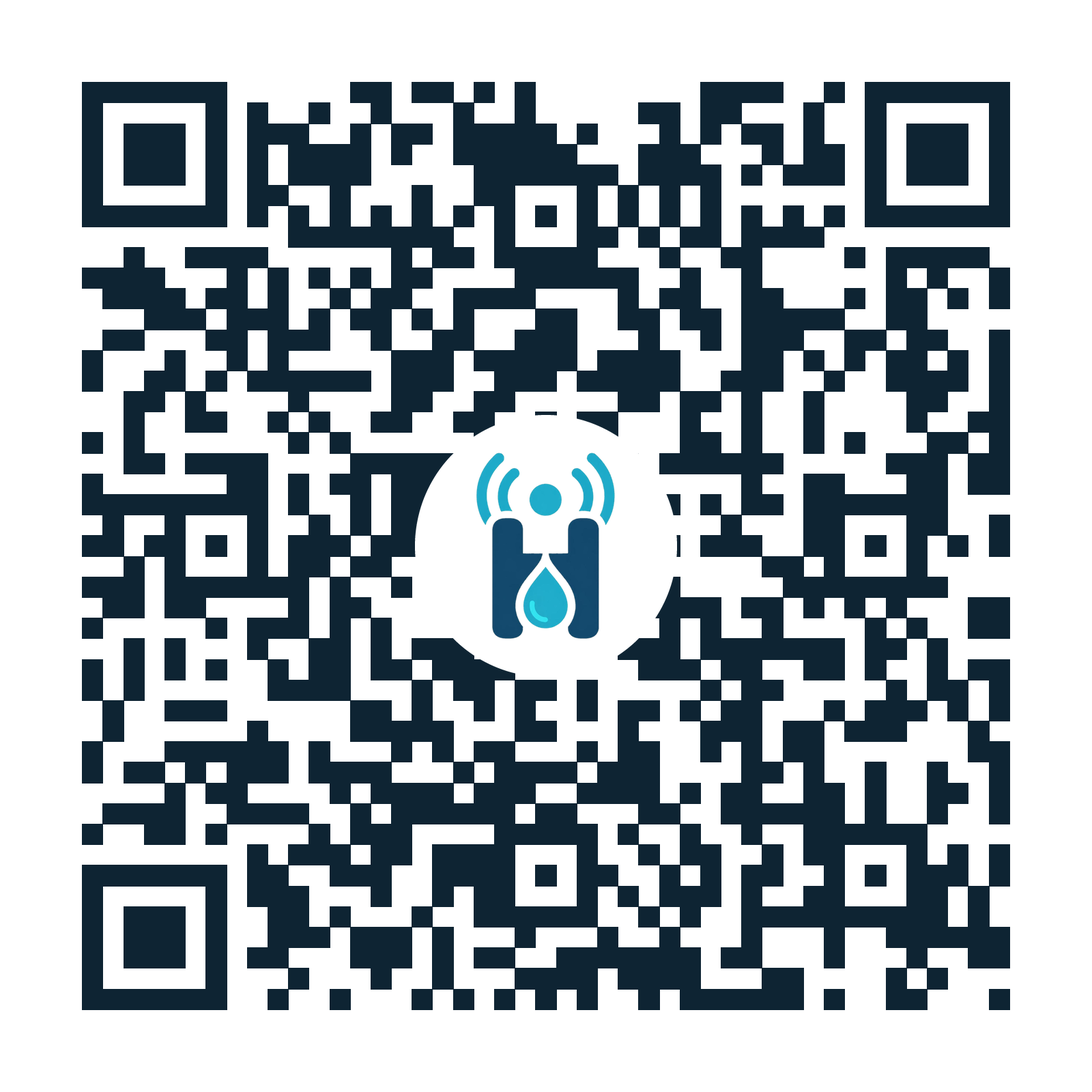
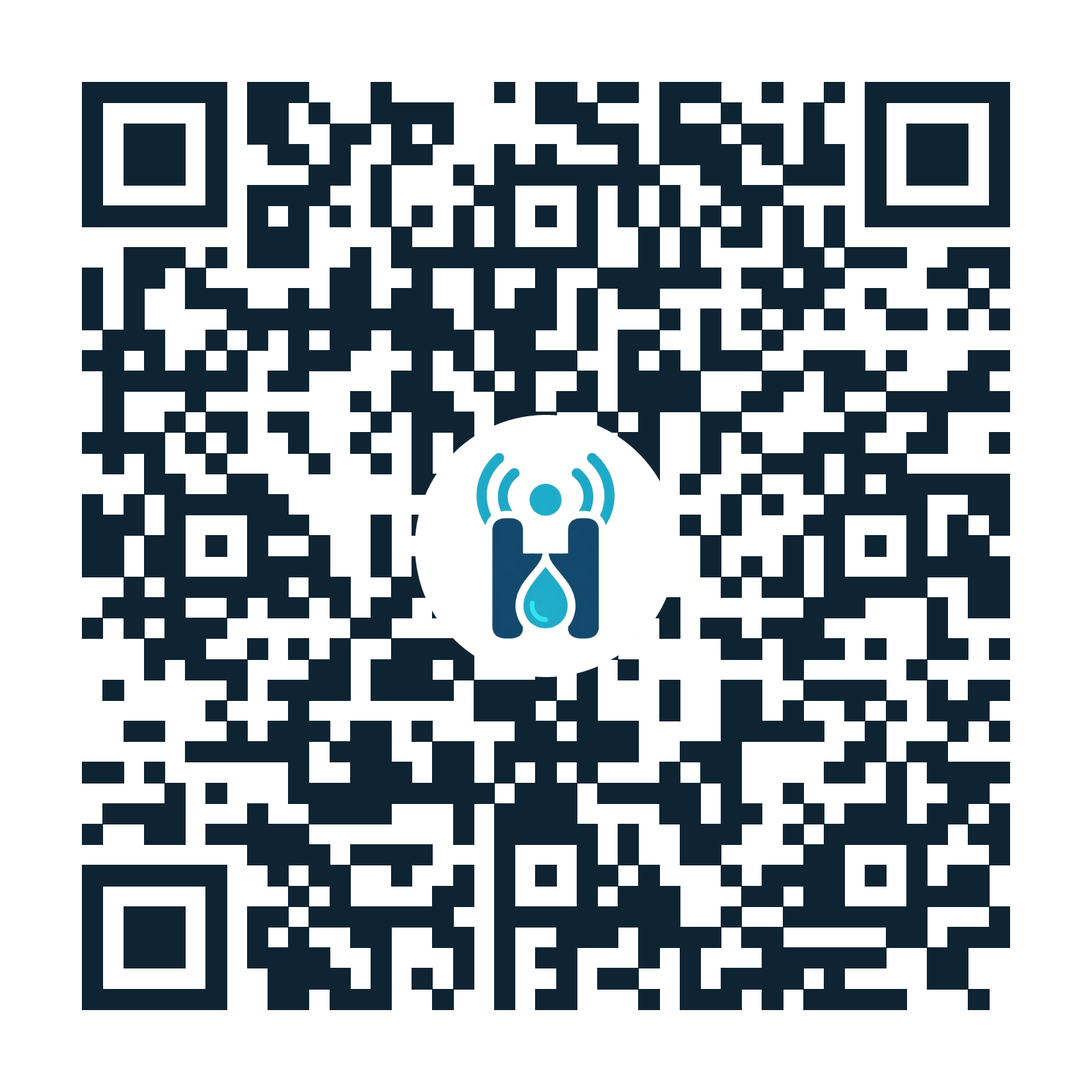
Move site address to radio.hectolitre.space
CNAME already names the new domain, but absolute URLs still pointed at
radio.hectolitre.be, including the station queue's self-hosted recording
and the podcast enclosure.

- Update site.json, queue.json, generate_feed.py, about page, sitemap,
  robots.txt and llms.txt
- Regenerate social meta tags, feed.xml, station.m3u and QR codes
- Rewrite docs/custom-domain.md, noting what happens to old addresses

Links to the main Hectolitre site (www.hectolitre.be) are unchanged.

Claude-Session: https://claude.ai/code/session_018stEAkN9pU52Zg2sJM6Zv3

Changed region(s): [[0.0625, 0.0625, 0.9375, 0.9375]]

diff --git a/pages/about.html b/pages/about.html
@@ -20,15 +20,15 @@
   <title>About — Radio Hectolitre</title>
 <!-- BEGIN social-meta: generated by scripts/sync_social_meta.py, do not hand-edit -->
   <meta name="description" content="An internet art radio by a resident at Hectolitre, an artists-run space in Brussels: live performances, interviews and concerts, then the recordings and documentation." />
-  <link rel="canonical" href="https://radio.hectolitre.be/pages/about.html" />
+  <link rel="canonical" href="https://radio.hectolitre.space/pages/about.html" />
   <meta name="theme-color" content="#18a8c8" />
   <link rel="manifest" href="../manifest.webmanifest" />
   <meta property="og:type" content="website" />
   <meta property="og:site_name" content="Radio Hectolitre" />
-  <meta property="og:url" content="https://radio.hectolitre.be/pages/about.html" />
+  <meta property="og:url" content="https://radio.hectolitre.space/pages/about.html" />
   <meta property="og:title" content="About — Radio Hectolitre" />
   <meta property="og:description" content="An internet art radio by a resident at Hectolitre, an artists-run space in Brussels: live performances, interviews and concerts, then the recordings and documentation." />
-  <meta property="og:image" content="https://radio.hectolitre.be/assets/img/og/radio-hectolitre.jpg" />
+  <meta property="og:image" content="https://radio.hectolitre.space/assets/img/og/radio-hectolitre.jpg" />
   <meta property="og:image:type" content="image/jpeg" />
   <meta property="og:image:width" content="1200" />
   <meta property="og:image:height" content="630" />
@@ -36,7 +36,7 @@
   <meta name="twitter:card" content="summary_large_image" />
   <meta name="twitter:title" content="About — Radio Hectolitre" />
   <meta name="twitter:description" content="An internet art radio by a resident at Hectolitre, an artists-run space in Brussels: live performances, interviews and concerts, then the recordings and documentation." />
-  <meta name="twitter:image" content="https://radio.hectolitre.be/assets/img/og/radio-hectolitre.jpg" />
+  <meta name="twitter:image" content="https://radio.hectolitre.space/assets/img/og/radio-hectolitre.jpg" />
   <meta name="twitter:image:alt" content="Documentation photo from the first Radio Hectolitre transmission: people gathered around a laptop and a spherical metal sculpture on a stand, at Hectolitre in Brussels" />
 <!-- END social-meta -->
   <link rel="preconnect" href="https://fonts.googleapis.com">
@@ -74,7 +74,7 @@
 
     <h2>Station</h2>
     <p>The core idea is a synced station without a backend server. There's not one continuous shared audio stream produced the way a typical internet-radio setup does. Tapping play seeks to the current computed position and starts playback. Every listener's browser independently computes <em>"what should be playing right now"</em> from a fixed program and the wall clock — landing on the same track and offset without any server or listener-to-listener coordination. 
-    <p>For podcast apps & RSS readers: <a href="https://radio.hectolitre.be/feed.xml" target="_blank">feed.xml</a> · Plain playlist file: <a href="https://radio.hectolitre.be/station.m3u" target="_blank">station.m3u</a></p>
+    <p>For podcast apps & RSS readers: <a href="https://radio.hectolitre.space/feed.xml" target="_blank">feed.xml</a> · Plain playlist file: <a href="https://radio.hectolitre.space/station.m3u" target="_blank">station.m3u</a></p>
 
 
   </main>

diff --git a/index.html b/index.html
@@ -19,15 +19,15 @@
   </script>
   <title>Radio Hectolitre</title>
 <!-- BEGIN social-meta: generated by scripts/sync_social_meta.py, do not hand-edit -->
-  <link rel="canonical" href="https://radio.hectolitre.be/" />
+  <link rel="canonical" href="https://radio.hectolitre.space/" />
   <meta name="theme-color" content="#18a8c8" />
   <link rel="manifest" href="manifest.webmanifest" />
   <meta property="og:type" content="website" />
   <meta property="og:site_name" content="Radio Hectolitre" />
-  <meta property="og:url" content="https://radio.hectolitre.be/" />
+  <meta property="og:url" content="https://radio.hectolitre.space/" />
   <meta property="og:title" content="Radio Hectolitre" />
   <meta property="og:description" content="Artists-run broadcasting at Hectolitre, Brussels — live transmissions, documentation and recordings." />
-  <meta property="og:image" content="https://radio.hectolitre.be/assets/img/og/radio-hectolitre.jpg" />
+  <meta property="og:image" content="https://radio.hectolitre.space/assets/img/og/radio-hectolitre.jpg" />
   <meta property="og:image:type" content="image/jpeg" />
   <meta property="og:image:width" content="1200" />
   <meta property="og:image:height" content="630" />
@@ -35,7 +35,7 @@
   <meta name="twitter:card" content="summary_large_image" />
   <meta name="twitter:title" content="Radio Hectolitre" />
   <meta name="twitter:description" content="Artists-run broadcasting at Hectolitre, Brussels — live transmissions, documentation and recordings." />
-  <meta name="twitter:image" content="https://radio.hectolitre.be/assets/img/og/radio-hectolitre.jpg" />
+  <meta name="twitter:image" content="https://radio.hectolitre.space/assets/img/og/radio-hectolitre.jpg" />
   <meta name="twitter:image:alt" content="Documentation photo from the first Radio Hectolitre transmission: people gathered around a laptop and a spherical metal sculpture on a stand, at Hectolitre in Brussels" />
   <script type="application/ld+json">
 {
@@ -43,10 +43,10 @@
   "@graph": [
     {
       "@type": "Organization",
-      "@id": "https://radio.hectolitre.be/#organization",
+      "@id": "https://radio.hectolitre.space/#organization",
       "name": "Radio Hectolitre",
-      "url": "https://radio.hectolitre.be/",
-      "logo": "https://radio.hectolitre.be/assets/img/favicon/radio-hectolitre.png",
+      "url": "https://radio.hectolitre.space/",
+      "logo": "https://radio.hectolitre.space/assets/img/favicon/radio-hectolitre.png",
       "sameAs": [
         "https://github.com/daqhris/radio-hectolitre",
         "https://www.hectolitre.be"
@@ -54,12 +54,12 @@
     },
     {
       "@type": "WebSite",
-      "@id": "https://radio.hectolitre.be/#website",
+      "@id": "https://radio.hectolitre.space/#website",
       "name": "Radio Hectolitre",
-      "url": "https://radio.hectolitre.be/",
+      "url": "https://radio.hectolitre.space/",
       "description": "Artists-run broadcasting at Hectolitre, Brussels — live transmissions, documentation and recordings.",
       "publisher": {
-        "@id": "https://radio.hectolitre.be/#organization"
+        "@id": "https://radio.hectolitre.space/#organization"
       }
     }
   ]

diff --git a/pages/broadcasts/2026-05-31.html b/pages/broadcasts/2026-05-31.html
@@ -20,15 +20,15 @@
   <title>Radio Hectolitre — 31 May 2026</title>
 <!-- BEGIN social-meta: generated by scripts/sync_social_meta.py, do not hand-edit -->
   <meta name="description" content="A site-specific sound performance in the Reactor space — the inaugural transmission of Radio Hectolitre, broadcast live via FRP Radio." />
-  <link rel="canonical" href="https://radio.hectolitre.be/pages/broadcasts/2026-05-31.html" />
+  <link rel="canonical" href="https://radio.hectolitre.space/pages/broadcasts/2026-05-31.html" />
   <meta name="theme-color" content="#18a8c8" />
   <link rel="manifest" href="../../manifest.webmanifest" />
   <meta property="og:type" content="website" />
   <meta property="og:site_name" content="Radio Hectolitre" />
-  <meta property="og:url" content="https://radio.hectolitre.be/pages/broadcasts/2026-05-31.html" />
+  <meta property="og:url" content="https://radio.hectolitre.space/pages/broadcasts/2026-05-31.html" />
   <meta property="og:title" content="Time Board Mother Control · 31 May 2026 — Radio Hectolitre" />
   <meta property="og:description" content="A site-specific sound performance in the Reactor space — the inaugural transmission of Radio Hectolitre, broadcast live via FRP Radio." />
-  <meta property="og:image" content="https://radio.hectolitre.be/assets/img/og/2026-05-31.jpg" />
+  <meta property="og:image" content="https://radio.hectolitre.space/assets/img/og/2026-05-31.jpg" />
   <meta property="og:image:type" content="image/jpeg" />
   <meta property="og:image:width" content="1200" />
   <meta property="og:image:height" content="630" />
@@ -36,7 +36,7 @@
   <meta name="twitter:card" content="summary_large_image" />
   <meta name="twitter:title" content="Time Board Mother Control · 31 May 2026 — Radio Hectolitre" />
   <meta name="twitter:description" content="A site-specific sound performance in the Reactor space — the inaugural transmission of Radio Hectolitre, broadcast live via FRP Radio." />
-  <meta name="twitter:image" content="https://radio.hectolitre.be/assets/img/og/2026-05-31.jpg" />
+  <meta name="twitter:image" content="https://radio.hectolitre.space/assets/img/og/2026-05-31.jpg" />
   <meta name="twitter:image:alt" content="Hand-lettered poster for the Time Board Mother Control performance: Sunday 31 May at Hectolitre, Rue de l'Hectolitre 3, Brussels" />
 <!-- END social-meta -->
   <link rel="preconnect" href="https://fonts.googleapis.com">

diff --git a/pages/episodes/episode-06-ksenia-anokhina.html b/pages/episodes/episode-06-ksenia-anokhina.html
@@ -20,15 +20,15 @@
   <title>Episode 06 — Ksenia Anokhina — Radio Hectolitre</title>
 <!-- BEGIN social-meta: generated by scripts/sync_social_meta.py, do not hand-edit -->
   <meta name="description" content="Ksenia Anokhina on technology, power and bureaucracy, during a three-month Hectolitre residency." />
-  <link rel="canonical" href="https://radio.hectolitre.be/pages/episodes/episode-06-ksenia-anokhina.html" />
+  <link rel="canonical" href="https://radio.hectolitre.space/pages/episodes/episode-06-ksenia-anokhina.html" />
   <meta name="theme-color" content="#18a8c8" />
   <link rel="manifest" href="../../manifest.webmanifest" />
   <meta property="og:type" content="website" />
   <meta property="og:site_name" content="Radio Hectolitre" />
-  <meta property="og:url" content="https://radio.hectolitre.be/pages/episodes/episode-06-ksenia-anokhina.html" />
+  <meta property="og:url" content="https://radio.hectolitre.space/pages/episodes/episode-06-ksenia-anokhina.html" />
   <meta property="og:title" content="Episode 06 — Ksenia Anokhina — Radio Hectolitre" />
   <meta property="og:description" content="Ksenia Anokhina on technology, power and bureaucracy, during a three-month Hectolitre residency." />
-  <meta property="og:image" content="https://radio.hectolitre.be/assets/img/og/episode-06-ksenia-anokhina.jpg" />
+  <meta property="og:image" content="https://radio.hectolitre.space/assets/img/og/episode-06-ksenia-anokhina.jpg" />
   <meta property="og:image:type" content="image/jpeg" />
   <meta property="og:image:width" content="1200" />
   <meta property="og:image:height" content="630" />
@@ -36,7 +36,7 @@
   <meta name="twitter:card" content="summary_large_image" />
   <meta name="twitter:title" content="Episode 06 — Ksenia Anokhina — Radio Hectolitre" />
   <meta name="twitter:description" content="Ksenia Anokhina on technology, power and bureaucracy, during a three-month Hectolitre residency." />
-  <meta name="twitter:image" content="https://radio.hectolitre.be/assets/img/og/episode-06-ksenia-anokhina.jpg" />
+  <meta name="twitter:image" content="https://radio.hectolitre.space/assets/img/og/episode-06-ksenia-anokhina.jpg" />
   <meta name="twitter:image:alt" content="Episode 06 — Ksenia Anokhina — Hectolitre.FM · Episode 06, on a background of radio-wave rings" />
 <!-- END social-meta -->
   <link rel="preconnect" href="https://fonts.googleapis.com">

diff --git a/pages/episodes/episode-03-pierre-louis-cassou.html b/pages/episodes/episode-03-pierre-louis-cassou.html
@@ -20,15 +20,15 @@
   <title>Episode 03 — Pierre-Louis Cassou — Radio Hectolitre</title>
 <!-- BEGIN social-meta: generated by scripts/sync_social_meta.py, do not hand-edit -->
   <meta name="description" content="Meeting Pierre-Louis Cassou, one of Hectolitre's longest-standing members." />
-  <link rel="canonical" href="https://radio.hectolitre.be/pages/episodes/episode-03-pierre-louis-cassou.html" />
+  <link rel="canonical" href="https://radio.hectolitre.space/pages/episodes/episode-03-pierre-louis-cassou.html" />
   <meta name="theme-color" content="#18a8c8" />
   <link rel="manifest" href="../../manifest.webmanifest" />
   <meta property="og:type" content="website" />
   <meta property="og:site_name" content="Radio Hectolitre" />
-  <meta property="og:url" content="https://radio.hectolitre.be/pages/episodes/episode-03-pierre-louis-cassou.html" />
+  <meta property="og:url" content="https://radio.hectolitre.space/pages/episodes/episode-03-pierre-louis-cassou.html" />
   <meta property="og:title" content="Episode 03 — Pierre-Louis Cassou — Radio Hectolitre" />
   <meta property="og:description" content="Meeting Pierre-Louis Cassou, one of Hectolitre's longest-standing members." />
-  <meta property="og:image" content="https://radio.hectolitre.be/assets/img/og/episode-03-pierre-louis-cassou.jpg" />
+  <meta property="og:image" content="https://radio.hectolitre.space/assets/img/og/episode-03-pierre-louis-cassou.jpg" />
   <meta property="og:image:type" content="image/jpeg" />
   <meta property="og:image:width" content="1200" />
   <meta property="og:image:height" content="630" />
@@ -36,7 +36,7 @@
   <meta name="twitter:card" content="summary_large_image" />
   <meta name="twitter:title" content="Episode 03 — Pierre-Louis Cassou — Radio Hectolitre" />
   <meta name="twitter:description" content="Meeting Pierre-Louis Cassou, one of Hectolitre's longest-standing members." />
-  <meta name="twitter:image" content="https://radio.hectolitre.be/assets/img/og/episode-03-pierre-louis-cassou.jpg" />
+  <meta name="twitter:image" content="https://radio.hectolitre.space/assets/img/og/episode-03-pierre-louis-cassou.jpg" />
   <meta name="twitter:image:alt" content="Episode 03 — Pierre-Louis Cassou — Hectolitre.FM · Episode 03, on a background of radio-wave rings" />
 <!-- END social-meta -->
   <link rel="preconnect" href="https://fonts.googleapis.com">

diff --git a/pages/episodes/episode-04-oscar-cassamajor.html b/pages/episodes/episode-04-oscar-cassamajor.html
@@ -20,15 +20,15 @@
   <title>Episode 04 — Oscar Cassamajor — Radio Hectolitre</title>
 <!-- BEGIN social-meta: generated by scripts/sync_social_meta.py, do not hand-edit -->
   <meta name="description" content="Oscar Cassamajor on parkour, cultural mediation, and growing fruit trees in the city." />
-  <link rel="canonical" href="https://radio.hectolitre.be/pages/episodes/episode-04-oscar-cassamajor.html" />
+  <link rel="canonical" href="https://radio.hectolitre.space/pages/episodes/episode-04-oscar-cassamajor.html" />
   <meta name="theme-color" content="#18a8c8" />
   <link rel="manifest" href="../../manifest.webmanifest" />
   <meta property="og:type" content="website" />
   <meta property="og:site_name" content="Radio Hectolitre" />
-  <meta property="og:url" content="https://radio.hectolitre.be/pages/episodes/episode-04-oscar-cassamajor.html" />
+  <meta property="og:url" content="https://radio.hectolitre.space/pages/episodes/episode-04-oscar-cassamajor.html" />
   <meta property="og:title" content="Episode 04 — Oscar Cassamajor — Radio Hectolitre" />
   <meta property="og:description" content="Oscar Cassamajor on parkour, cultural mediation, and growing fruit trees in the city." />
-  <meta property="og:image" content="https://radio.hectolitre.be/assets/img/og/episode-04-oscar-cassamajor.jpg" />
+  <meta property="og:image" content="https://radio.hectolitre.space/assets/img/og/episode-04-oscar-cassamajor.jpg" />
   <meta property="og:image:type" content="image/jpeg" />
   <meta property="og:image:width" content="1200" />
   <meta property="og:image:height" content="630" />
@@ -36,7 +36,7 @@
   <meta name="twitter:card" content="summary_large_image" />
   <meta name="twitter:title" content="Episode 04 — Oscar Cassamajor — Radio Hectolitre" />
   <meta name="twitter:description" content="Oscar Cassamajor on parkour, cultural mediation, and growing fruit trees in the city." />
-  <meta name="twitter:image" content="https://radio.hectolitre.be/assets/img/og/episode-04-oscar-cassamajor.jpg" />
+  <meta name="twitter:image" content="https://radio.hectolitre.space/assets/img/og/episode-04-oscar-cassamajor.jpg" />
   <meta name="twitter:image:alt" content="Episode 04 — Oscar Cassamajor — Hectolitre.FM · Episode 04, on a background of radio-wave rings" />
 <!-- END social-meta -->
   <link rel="preconnect" href="https://fonts.googleapis.com">

diff --git a/pages/episodes/episode-08-martina-petrovic.html b/pages/episodes/episode-08-martina-petrovic.html
@@ -20,15 +20,15 @@
   <title>Episode 08 — Martina Petrović — Radio Hectolitre</title>
 <!-- BEGIN social-meta: generated by scripts/sync_social_meta.py, do not hand-edit -->
   <meta name="description" content="Martina Petrović on diaspora, ritual and grief, and life inside an art space." />
-  <link rel="canonical" href="https://radio.hectolitre.be/pages/episodes/episode-08-martina-petrovic.html" />
+  <link rel="canonical" href="https://radio.hectolitre.space/pages/episodes/episode-08-martina-petrovic.html" />
   <meta name="theme-color" content="#18a8c8" />
   <link rel="manifest" href="../../manifest.webmanifest" />
   <meta property="og:type" content="website" />
   <meta property="og:site_name" content="Radio Hectolitre" />
-  <meta property="og:url" content="https://radio.hectolitre.be/pages/episodes/episode-08-martina-petrovic.html" />
+  <meta property="og:url" content="https://radio.hectolitre.space/pages/episodes/episode-08-martina-petrovic.html" />
   <meta property="og:title" content="Episode 08 — Martina Petrović — Radio Hectolitre" />
   <meta property="og:description" content="Martina Petrović on diaspora, ritual and grief, and life inside an art space." />
-  <meta property="og:image" content="https://radio.hectolitre.be/assets/img/og/episode-08-martina-petrovic.jpg" />
+  <meta property="og:image" content="https://radio.hectolitre.space/assets/img/og/episode-08-martina-petrovic.jpg" />
   <meta property="og:image:type" content="image/jpeg" />
   <meta property="og:image:width" content="1200" />
   <meta property="og:image:height" content="630" />
@@ -36,7 +36,7 @@
   <meta name="twitter:card" content="summary_large_image" />
   <meta name="twitter:title" content="Episode 08 — Martina Petrović — Radio Hectolitre" />
   <meta name="twitter:description" content="Martina Petrović on diaspora, ritual and grief, and life inside an art space." />
-  <meta name="twitter:image" content="https://radio.hectolitre.be/assets/img/og/episode-08-martina-petrovic.jpg" />
+  <meta name="twitter:image" content="https://radio.hectolitre.space/assets/img/og/episode-08-martina-petrovic.jpg" />
   <meta name="twitter:image:alt" content="Episode 08 — Martina Petrović — Hectolitre.FM · Episode 08, on a background of radio-wave rings" />
 <!-- END social-meta -->
   <link rel="preconnect" href="https://fonts.googleapis.com">

diff --git a/pages/archive.html b/pages/archive.html
@@ -20,15 +20,15 @@
   <title>Broadcast — Radio Hectolitre</title>
 <!-- BEGIN social-meta: generated by scripts/sync_social_meta.py, do not hand-edit -->
   <meta name="description" content="Every web broadcast from Hectolitre, Brussels — live transmissions with their recordings, spoken words and photo documentation." />
-  <link rel="canonical" href="https://radio.hectolitre.be/pages/archive.html" />
+  <link rel="canonical" href="https://radio.hectolitre.space/pages/archive.html" />
   <meta name="theme-color" content="#18a8c8" />
   <link rel="manifest" href="../manifest.webmanifest" />
   <meta property="og:type" content="website" />
   <meta property="og:site_name" content="Radio Hectolitre" />
-  <meta property="og:url" content="https://radio.hectolitre.be/pages/archive.html" />
+  <meta property="og:url" content="https://radio.hectolitre.space/pages/archive.html" />
   <meta property="og:title" content="Broadcast — Radio Hectolitre" />
   <meta property="og:description" content="Every web broadcast from Hectolitre, Brussels — live transmissions with their recordings, spoken words and photo documentation." />
-  <meta property="og:image" content="https://radio.hectolitre.be/assets/img/og/radio-hectolitre.jpg" />
+  <meta property="og:image" content="https://radio.hectolitre.space/assets/img/og/radio-hectolitre.jpg" />
   <meta property="og:image:type" content="image/jpeg" />
   <meta property="og:image:width" content="1200" />
   <meta property="og:image:height" content="630" />
@@ -36,7 +36,7 @@
   <meta name="twitter:card" content="summary_large_image" />
   <meta name="twitter:title" content="Broadcast — Radio Hectolitre" />
   <meta name="twitter:description" content="Every web broadcast from Hectolitre, Brussels — live transmissions with their recordings, spoken words and photo documentation." />
-  <meta name="twitter:image" content="https://radio.hectolitre.be/assets/img/og/radio-hectolitre.jpg" />
+  <meta name="twitter:image" content="https://radio.hectolitre.space/assets/img/og/radio-hectolitre.jpg" />
   <meta name="twitter:image:alt" content="Documentation photo from the first Radio Hectolitre transmission: people gathered around a laptop and a spherical metal sculpture on a stand, at Hectolitre in Brussels" />
 <!-- END social-meta -->
   <link rel="preconnect" href="https://fonts.googleapis.com">

diff --git a/pages/episodes/episode-05-naama-freedman.html b/pages/episodes/episode-05-naama-freedman.html
@@ -20,15 +20,15 @@
   <title>Episode 05 — Naama Freedman — Radio Hectolitre</title>
 <!-- BEGIN social-meta: generated by scripts/sync_social_meta.py, do not hand-edit -->
   <meta name="description" content="Israeli artist Naama Freedman on her Hectolitre residency and radio-art piece." />
-  <link rel="canonical" href="https://radio.hectolitre.be/pages/episodes/episode-05-naama-freedman.html" />
+  <link rel="canonical" href="https://radio.hectolitre.space/pages/episodes/episode-05-naama-freedman.html" />
   <meta name="theme-color" content="#18a8c8" />
   <link rel="manifest" href="../../manifest.webmanifest" />
   <meta property="og:type" content="website" />
   <meta property="og:site_name" content="Radio Hectolitre" />
-  <meta property="og:url" content="https://radio.hectolitre.be/pages/episodes/episode-05-naama-freedman.html" />
+  <meta property="og:url" content="https://radio.hectolitre.space/pages/episodes/episode-05-naama-freedman.html" />
   <meta property="og:title" content="Episode 05 — Naama Freedman — Radio Hectolitre" />
   <meta property="og:description" content="Israeli artist Naama Freedman on her Hectolitre residency and radio-art piece." />
-  <meta property="og:image" content="https://radio.hectolitre.be/assets/img/og/episode-05-naama-freedman.jpg" />
+  <meta property="og:image" content="https://radio.hectolitre.space/assets/img/og/episode-05-naama-freedman.jpg" />
   <meta property="og:image:type" content="image/jpeg" />
   <meta property="og:image:width" content="1200" />
   <meta property="og:image:height" content="630" />
@@ -36,7 +36,7 @@
   <meta name="twitter:card" content="summary_large_image" />
   <meta name="twitter:title" content="Episode 05 — Naama Freedman — Radio Hectolitre" />
   <meta name="twitter:description" content="Israeli artist Naama Freedman on her Hectolitre residency and radio-art piece." />
-  <meta name="twitter:image" content="https://radio.hectolitre.be/assets/img/og/episode-05-naama-freedman.jpg" />
+  <meta name="twitter:image" content="https://radio.hectolitre.space/assets/img/og/episode-05-naama-freedman.jpg" />
   <meta name="twitter:image:alt" content="Episode 05 — Naama Freedman — Hectolitre.FM · Episode 05, on a background of radio-wave rings" />
 <!-- END social-meta -->
   <link rel="preconnect" href="https://fonts.googleapis.com">

diff --git a/pages/episodes.html b/pages/episodes.html
@@ -20,15 +20,15 @@
   <title>Episodes — Radio Hectolitre</title>
 <!-- BEGIN social-meta: generated by scripts/sync_social_meta.py, do not hand-edit -->
   <meta name="description" content="Hectolitre.FM, an interview series giving voice to the people who animate Hectolitre, a genre-crossing space in Brussels." />
-  <link rel="canonical" href="https://radio.hectolitre.be/pages/episodes.html" />
+  <link rel="canonical" href="https://radio.hectolitre.space/pages/episodes.html" />
   <meta name="theme-color" content="#18a8c8" />
   <link rel="manifest" href="../manifest.webmanifest" />
   <meta property="og:type" content="website" />
   <meta property="og:site_name" content="Radio Hectolitre" />
-  <meta property="og:url" content="https://radio.hectolitre.be/pages/episodes.html" />
+  <meta property="og:url" content="https://radio.hectolitre.space/pages/episodes.html" />
   <meta property="og:title" content="Episodes — Radio Hectolitre" />
   <meta property="og:description" content="Hectolitre.FM, an interview series giving voice to the people who animate Hectolitre, a genre-crossing space in Brussels." />
-  <meta property="og:image" content="https://radio.hectolitre.be/assets/img/og/radio-hectolitre.jpg" />
+  <meta property="og:image" content="https://radio.hectolitre.space/assets/img/og/radio-hectolitre.jpg" />
   <meta property="og:image:type" content="image/jpeg" />
   <meta property="og:image:width" content="1200" />
   <meta property="og:image:height" content="630" />
@@ -36,7 +36,7 @@
   <meta name="twitter:card" content="summary_large_image" />
   <meta name="twitter:title" content="Episodes — Radio Hectolitre" />
   <meta name="twitter:description" content="Hectolitre.FM, an interview series giving voice to the people who animate Hectolitre, a genre-crossing space in Brussels." />
-  <meta name="twitter:image" content="https://radio.hectolitre.be/assets/img/og/radio-hectolitre.jpg" />
+  <meta name="twitter:image" content="https://radio.hectolitre.space/assets/img/og/radio-hectolitre.jpg" />
   <meta name="twitter:image:alt" content="Documentation photo from the first Radio Hectolitre transmission: people gathered around a laptop and a spherical metal sculpture on a stand, at Hectolitre in Brussels" />
 <!-- END social-meta -->
   <link rel="preconnect" href="https://fonts.googleapis.com">

diff --git a/pages/episodes/episode-01-sofhie-mavroudis.html b/pages/episodes/episode-01-sofhie-mavroudis.html
@@ -20,15 +20,15 @@
   <title>Episode 01 — Sofhie Mavroudis — Radio Hectolitre</title>
 <!-- BEGIN social-meta: generated by scripts/sync_social_meta.py, do not hand-edit -->
   <meta name="description" content="The series opener meets visual artist Sofhie Mavroudis." />
-  <link rel="canonical" href="https://radio.hectolitre.be/pages/episodes/episode-01-sofhie-mavroudis.html" />
+  <link rel="canonical" href="https://radio.hectolitre.space/pages/episodes/episode-01-sofhie-mavroudis.html" />
   <meta name="theme-color" content="#18a8c8" />
   <link rel="manifest" href="../../manifest.webmanifest" />
   <meta property="og:type" content="website" />
   <meta property="og:site_name" content="Radio Hectolitre" />
-  <meta property="og:url" content="https://radio.hectolitre.be/pages/episodes/episode-01-sofhie-mavroudis.html" />
+  <meta property="og:url" content="https://radio.hectolitre.space/pages/episodes/episode-01-sofhie-mavroudis.html" />
   <meta property="og:title" content="Episode 01 — Sofhie Mavroudis — Radio Hectolitre" />
   <meta property="og:description" content="The series opener meets visual artist Sofhie Mavroudis." />
-  <meta property="og:image" content="https://radio.hectolitre.be/assets/img/og/episode-01-sofhie-mavroudis.jpg" />
+  <meta property="og:image" content="https://radio.hectolitre.space/assets/img/og/episode-01-sofhie-mavroudis.jpg" />
   <meta property="og:image:type" content="image/jpeg" />
   <meta property="og:image:width" content="1200" />
   <meta property="og:image:height" content="630" />
@@ -36,7 +36,7 @@
   <meta name="twitter:card" content="summary_large_image" />
   <meta name="twitter:title" content="Episode 01 — Sofhie Mavroudis — Radio Hectolitre" />
   <meta name="twitter:description" content="The series opener meets visual artist Sofhie Mavroudis." />
-  <meta name="twitter:image" content="https://radio.hectolitre.be/assets/img/og/episode-01-sofhie-mavroudis.jpg" />
+  <meta name="twitter:image" content="https://radio.hectolitre.space/assets/img/og/episode-01-sofhie-mavroudis.jpg" />
   <meta name="twitter:image:alt" content="Episode 01 — Sofhie Mavroudis — Hectolitre.FM · Episode 01, on a background of radio-wave rings" />
 <!-- END social-meta -->
   <link rel="preconnect" href="https://fonts.googleapis.com">

diff --git a/pages/episodes/episode-07-david-labi.html b/pages/episodes/episode-07-david-labi.html
@@ -20,15 +20,15 @@
   <title>Episode 07 — David Labi — Radio Hectolitre</title>
 <!-- BEGIN social-meta: generated by scripts/sync_social_meta.py, do not hand-edit -->
   <meta name="description" content="David Labi on ethical storytelling and a one-man show about his father." />
-  <link rel="canonical" href="https://radio.hectolitre.be/pages/episodes/episode-07-david-labi.html" />
+  <link rel="canonical" href="https://radio.hectolitre.space/pages/episodes/episode-07-david-labi.html" />
   <meta name="theme-color" content="#18a8c8" />
   <link rel="manifest" href="../../manifest.webmanifest" />
   <meta property="og:type" content="website" />
   <meta property="og:site_name" content="Radio Hectolitre" />
-  <meta property="og:url" content="https://radio.hectolitre.be/pages/episodes/episode-07-david-labi.html" />
+  <meta property="og:url" content="https://radio.hectolitre.space/pages/episodes/episode-07-david-labi.html" />
   <meta property="og:title" content="Episode 07 — David Labi — Radio Hectolitre" />
   <meta property="og:description" content="David Labi on ethical storytelling and a one-man show about his father." />
-  <meta property="og:image" content="https://radio.hectolitre.be/assets/img/og/episode-07-david-labi.jpg" />
+  <meta property="og:image" content="https://radio.hectolitre.space/assets/img/og/episode-07-david-labi.jpg" />
   <meta property="og:image:type" content="image/jpeg" />
   <meta property="og:image:width" content="1200" />
   <meta property="og:image:height" content="630" />
@@ -36,7 +36,7 @@
   <meta name="twitter:card" content="summary_large_image" />
   <meta name="twitter:title" content="Episode 07 — David Labi — Radio Hectolitre" />
   <meta name="twitter:description" content="David Labi on ethical storytelling and a one-man show about his father." />
-  <meta name="twitter:image" content="https://radio.hectolitre.be/assets/img/og/episode-07-david-labi.jpg" />
+  <meta name="twitter:image" content="https://radio.hectolitre.space/assets/img/og/episode-07-david-labi.jpg" />
   <meta name="twitter:image:alt" content="Episode 07 — David Labi — Hectolitre.FM · Episode 07, on a background of radio-wave rings" />
 <!-- END social-meta -->
   <link rel="preconnect" href="https://fonts.googleapis.com">
